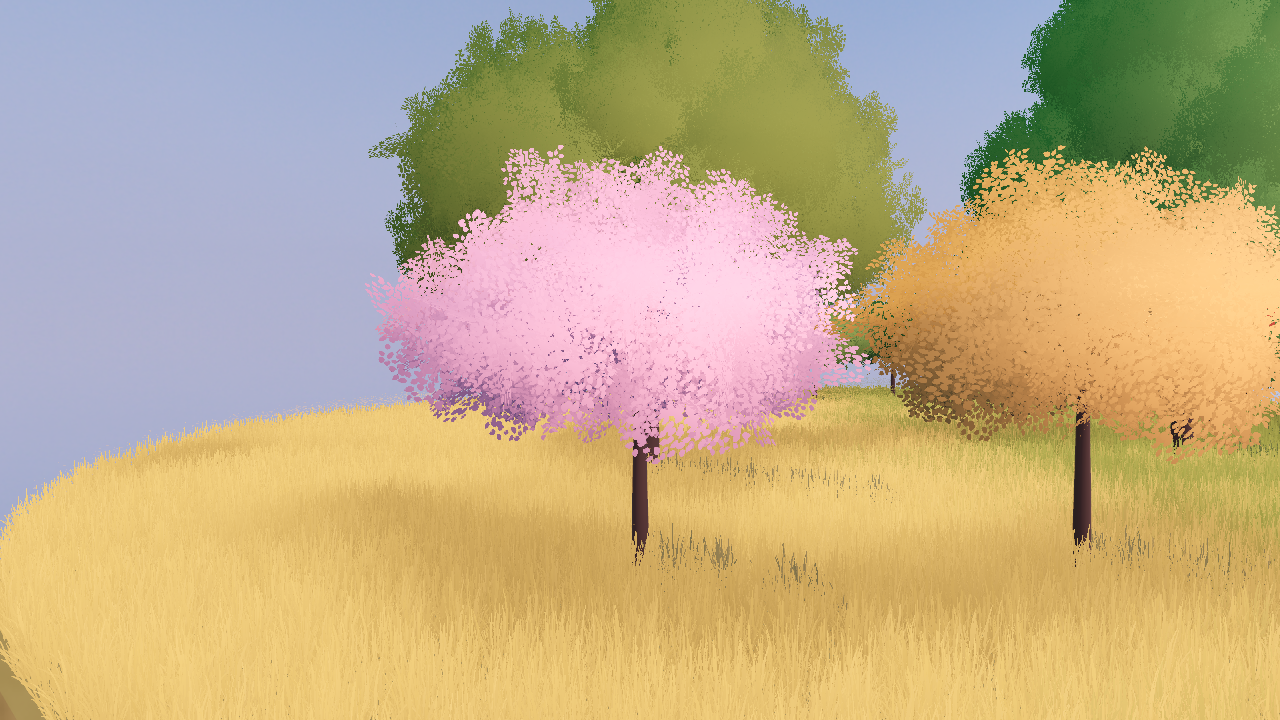
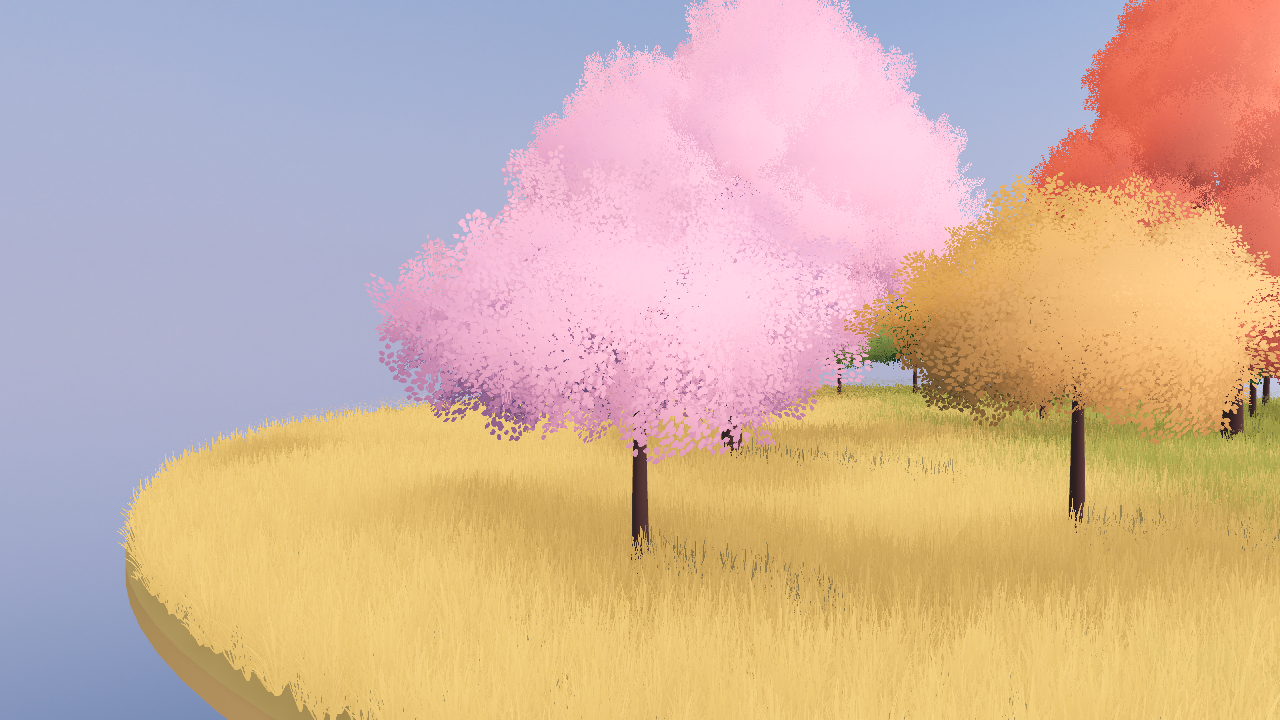
Arrange grove and add large seasonal trees

diff --git a/docs/RESEARCH_CONTEXT.md b/docs/RESEARCH_CONTEXT.md
@@ -176,6 +176,20 @@ the intent and the result of previous visual tests.
   `--capture-flower-a3`, `--capture-flower-a3-45`,
   `--capture-flower-a3-top` and `--capture-flower-a3-cherry` for its four-view
   check; A0, A1 and A2 remain selectable comparison baselines.
+- The palette-study planting is organized as a shallow four-tree arc rather
+  than a rigid row. The trees use generous lateral gaps so every crown and
+  trunk remains readable. The broad and upright large trees sit deeper in the
+  two intervening gaps, while the former right-front small trees have moved to
+  a loose right-edge cluster. This preserves an open central grass bay and
+  prevents unrelated green crowns from contaminating palette comparisons.
+- The two accepted medium/large models now also test A3 species color in the
+  default scene: `tree_medium_broad_clustered_canopy.glb` is the cherry-flower
+  tree and `tree_medium_upright_asymmetric_canopy.glb` is the orange autumn
+  tree. This is intentionally shader-only reuse: both keep their formal trunk,
+  card layout, canopy normals, angle fade and shadow behavior. Top view confirms
+  the large and small crowns are spatially separate even where the perspective
+  view overlaps them. Older A0-A2 comparison modes leave both large trees green
+  so their original palette baselines remain reproducible.
 
 ## Experiments not to reintroduce without a specific new reason
 
